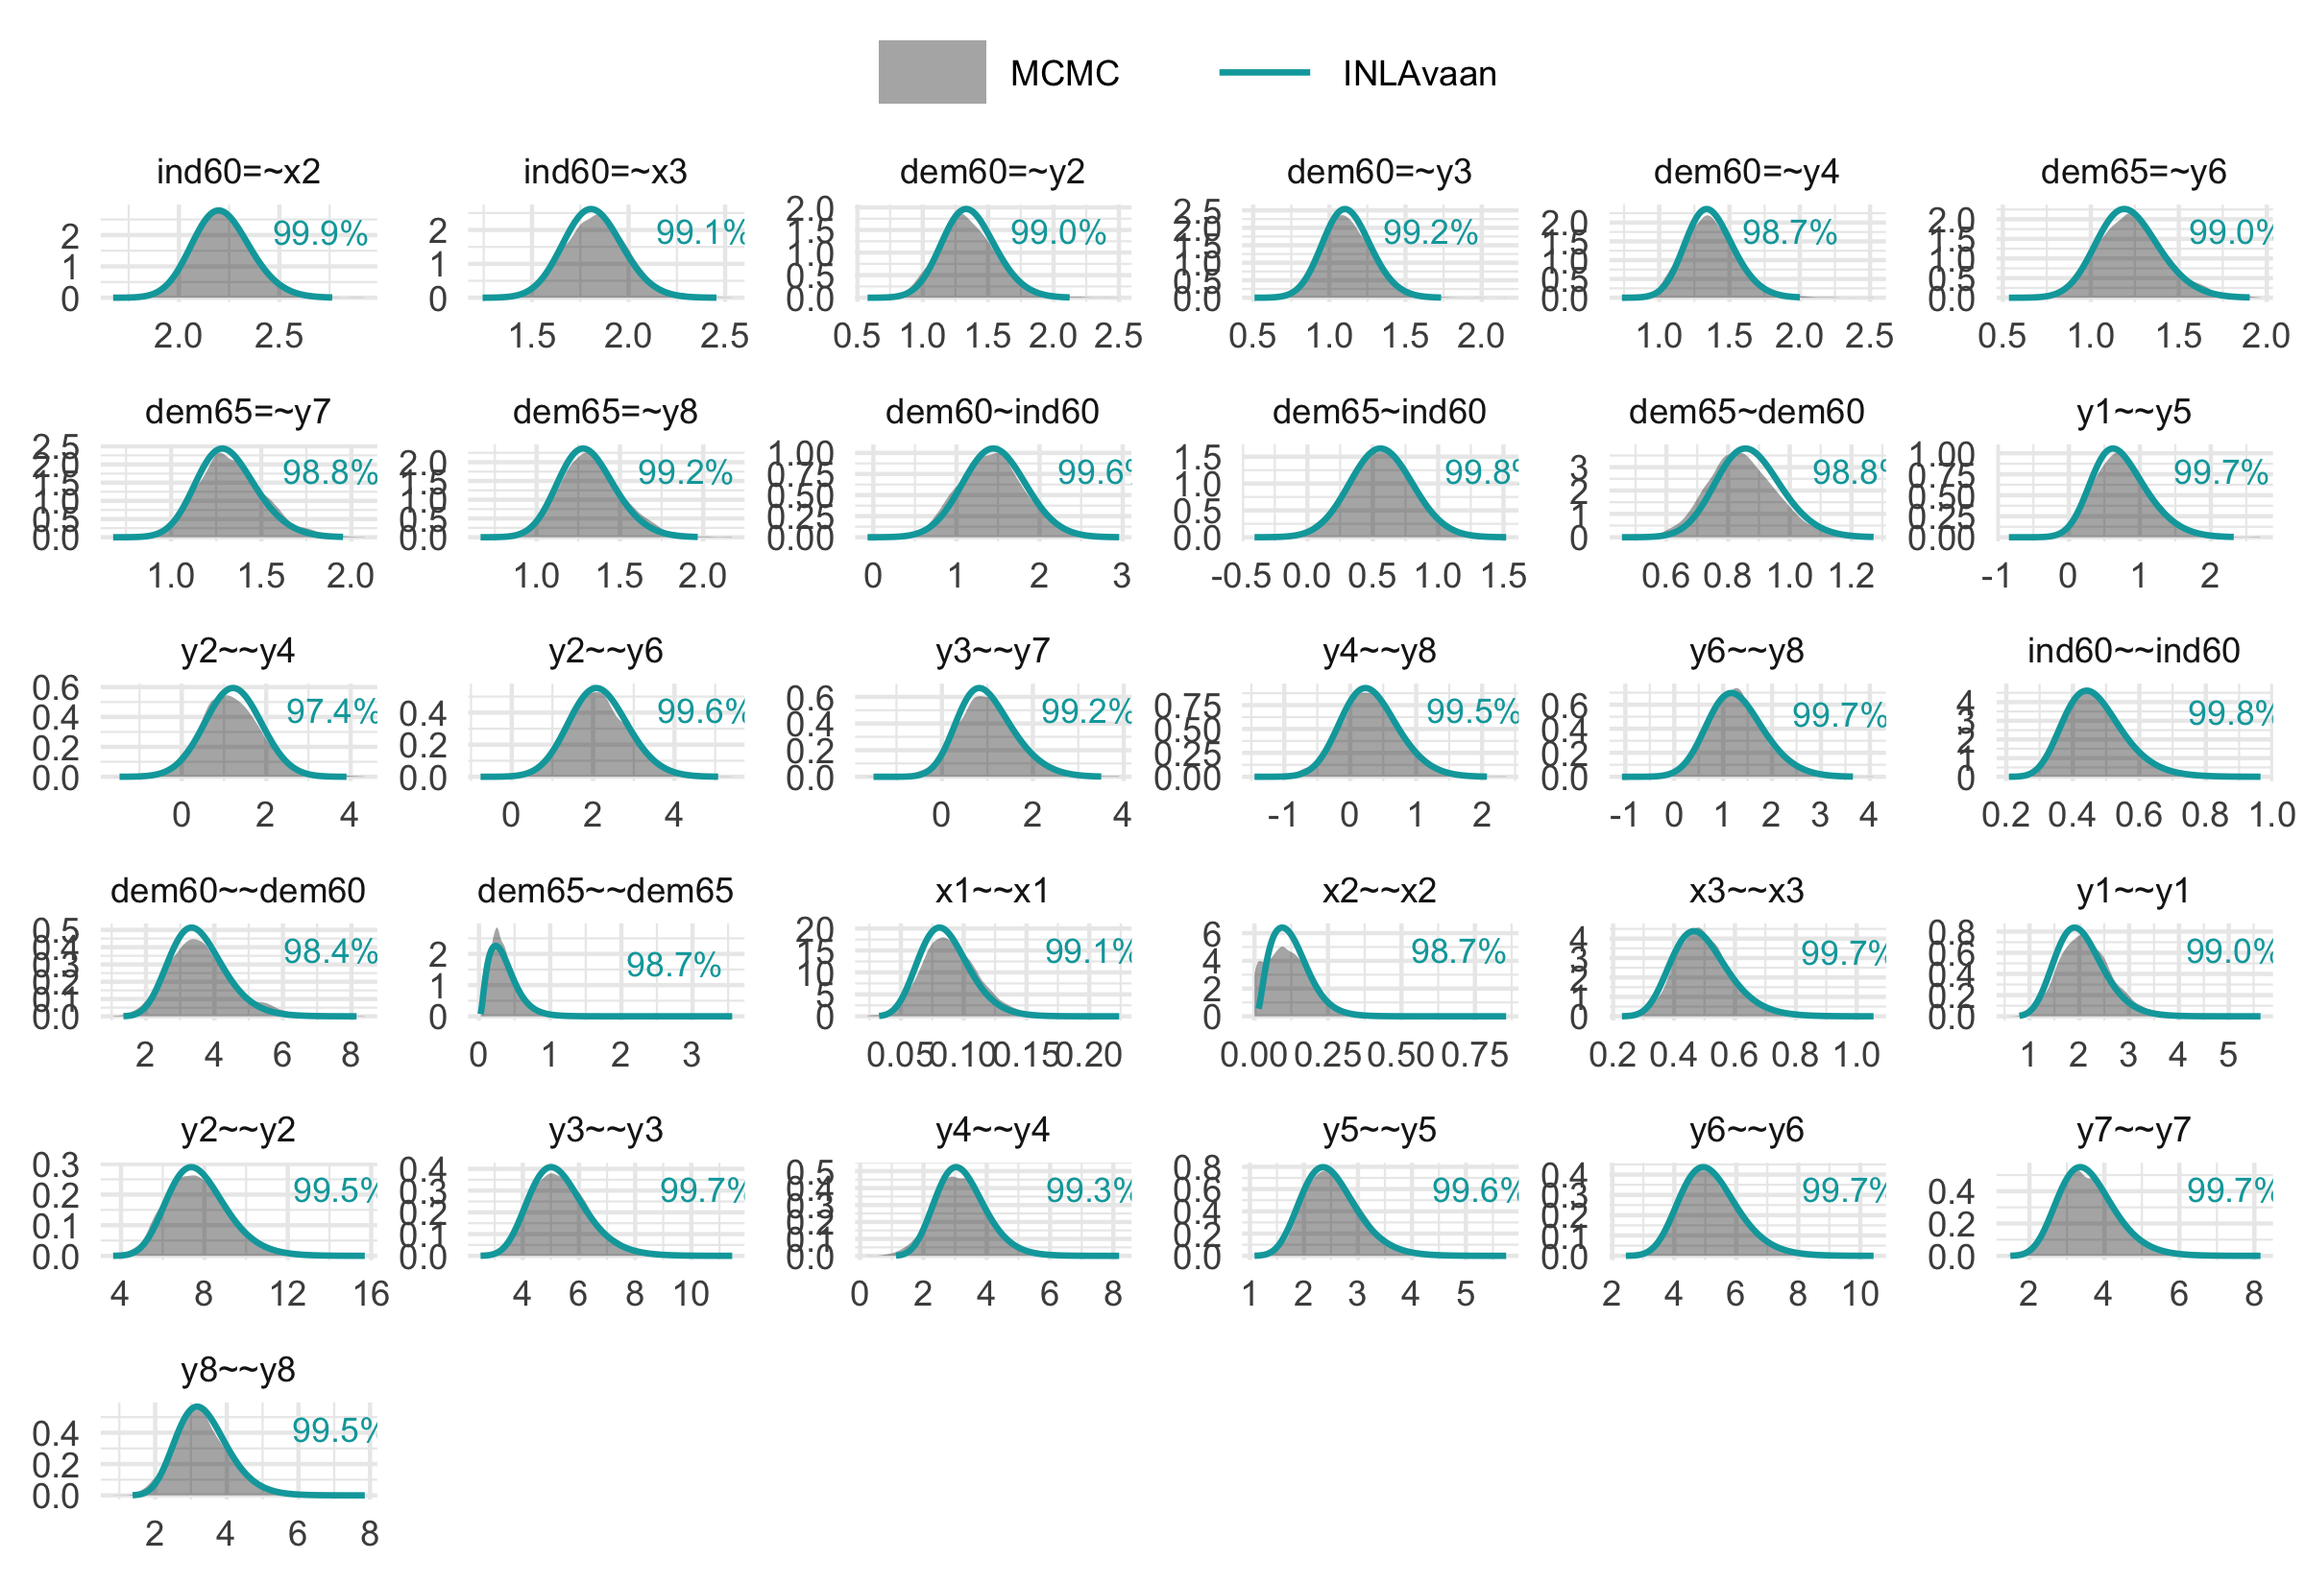
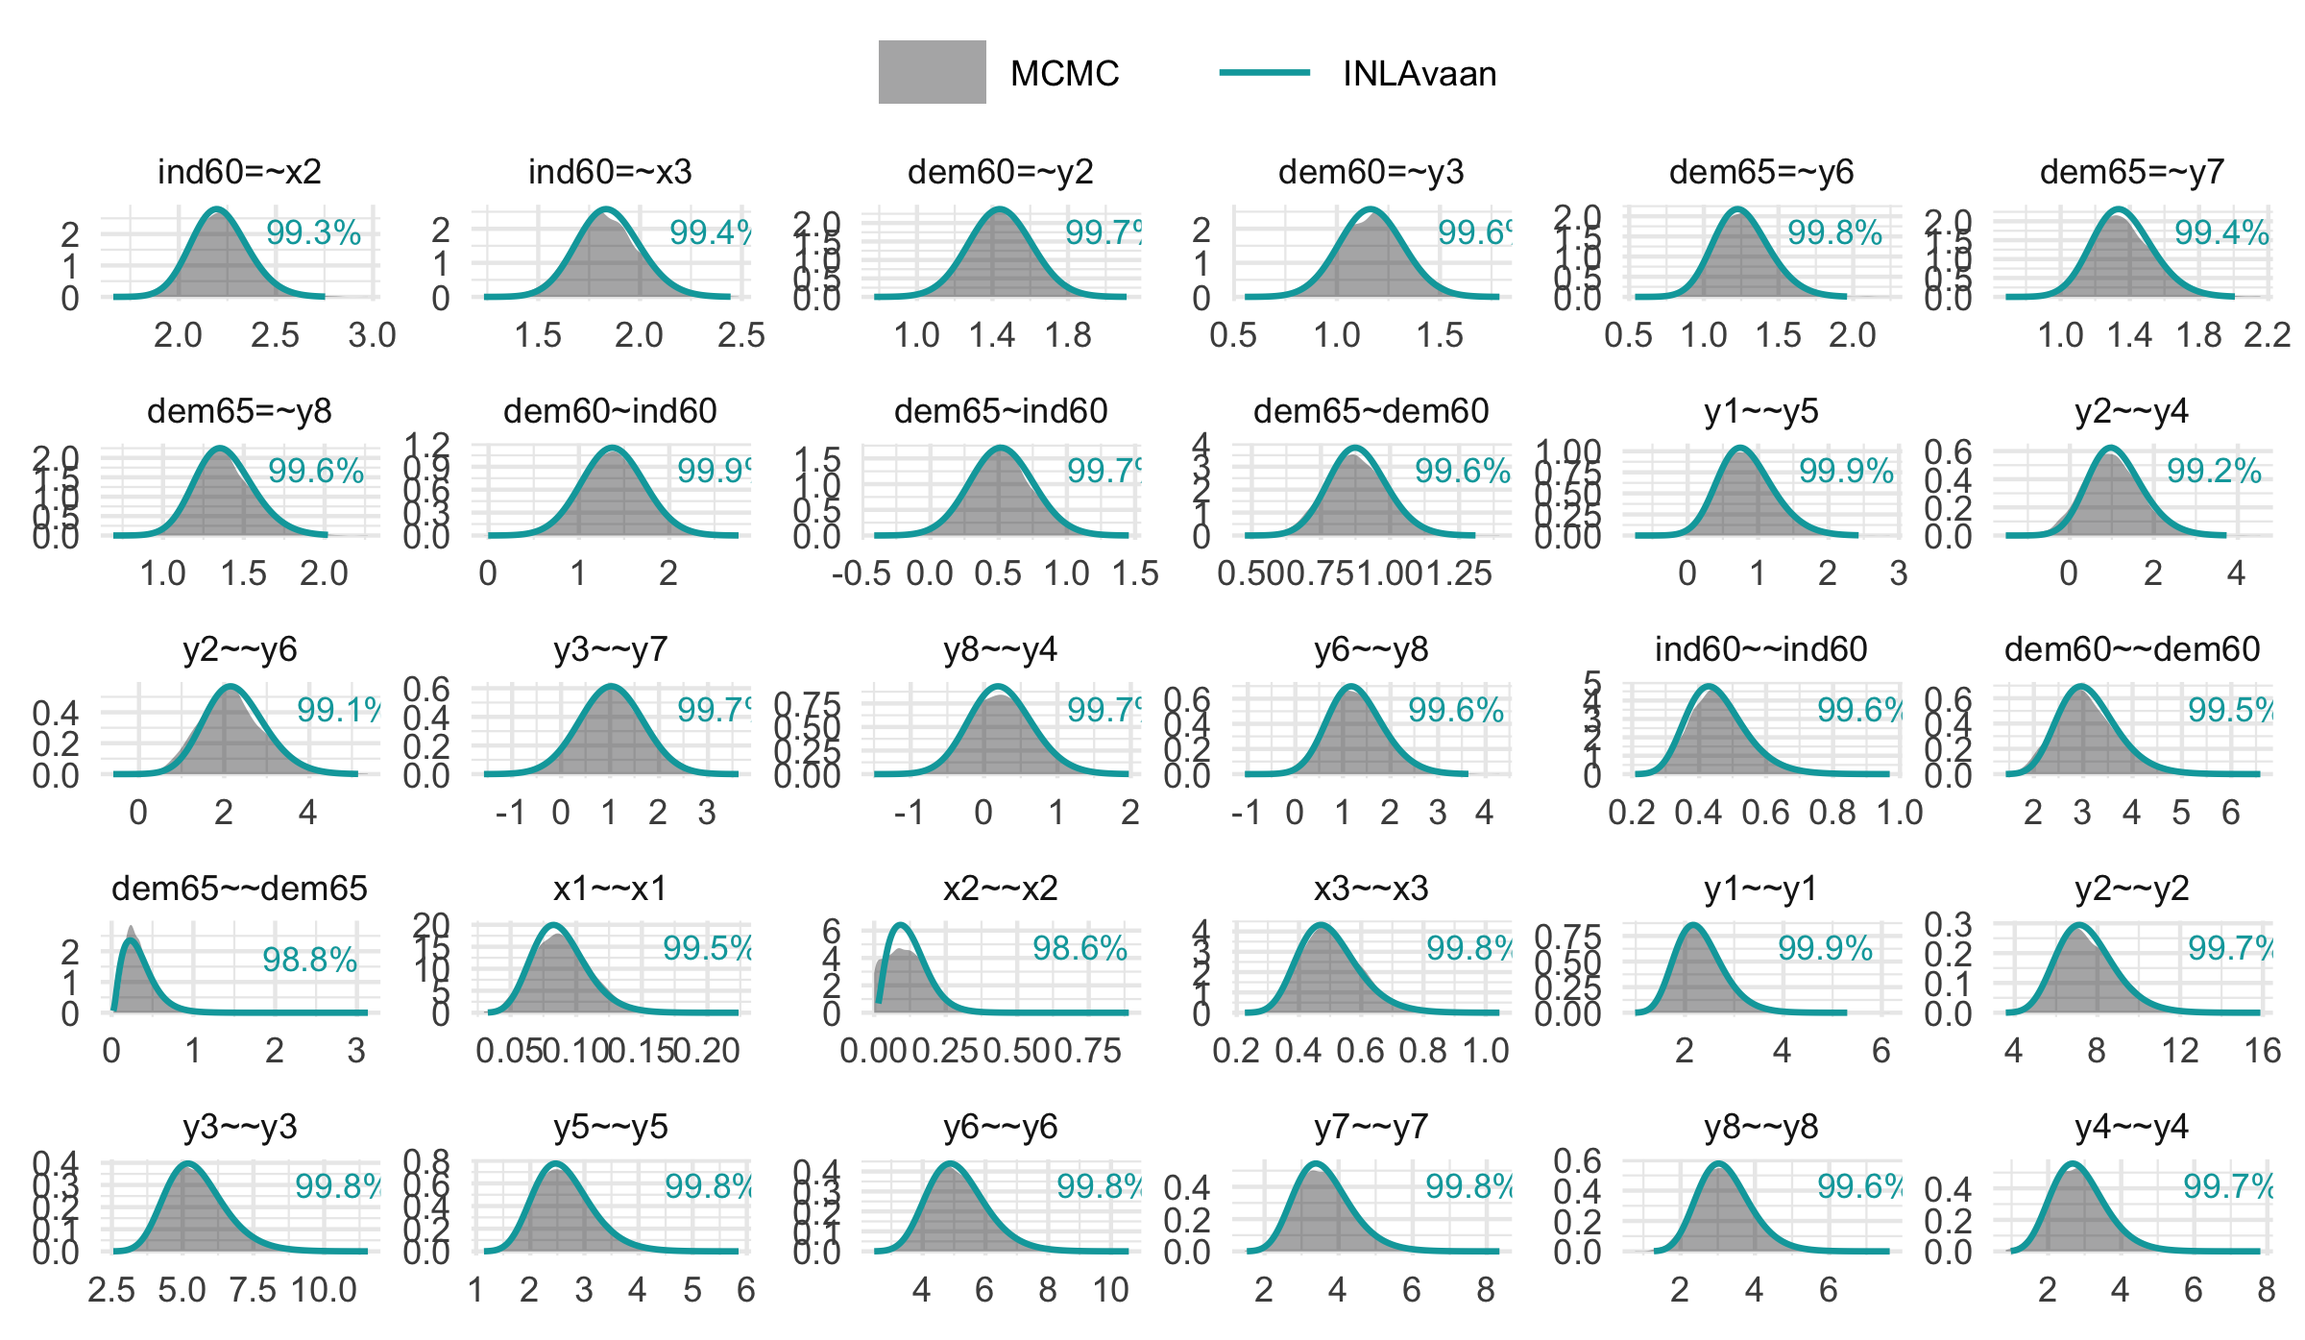
Update README

diff --git a/README.md b/README.md
@@ -40,7 +40,7 @@ Bollen (1989)[^1]:
 model <- "
   # Latent variable definitions
      ind60 =~ x1 + x2 + x3
-     dem60 =~ y1 + y2 + y3 + y4
+     dem60 =~ y1 + y2 + y3
      dem65 =~ y5 + y6 + y7 + y8
 
   # Latent regressions
@@ -54,56 +54,58 @@ model <- "
     y4 ~~ y8
     y6 ~~ y8
   
+  # Fixed loading
+    dem60 =~ 1.5*y4
+  
   # Custom priors on latent variances
     ind60 ~~ prior('gamma(1, 1)')*ind60
-    dem60 ~~ prior('gamma(1,.9)')*dem60
+    dem60 ~~ prior('gamma(2, 1)')*dem60
     dem65 ~~ prior('gamma(1,.5)')*dem65
 "
 utils::data("PoliticalDemocracy", package = "lavaan")
 
 fit <- asem(model, PoliticalDemocracy)
 #> ℹ Finding posterior mode.
-#> ✔ Finding posterior mode. [33ms]
+#> ✔ Finding posterior mode. [35ms]
 #> 
 #> ℹ Computing the Hessian.
-#> ✔ Computing the Hessian. [97ms]
+#> ✔ Computing the Hessian. [94ms]
 #> 
 #> ℹ Performing VB correction.
-#> ✔ VB correction; mean |δ| = 0.043σ. [87ms]
+#> ✔ VB correction; mean |δ| = 0.035σ. [85ms]
 #> 
-#> ⠙ Fitting skew normal to 0/31 marginals.
-#> ⠹ Fitting skew normal to 5/31 marginals.
-#> ⠸ Fitting skew normal to 16/31 marginals.
-#> ⠼ Fitting skew normal to 27/31 marginals.
-#> ✔ Fitting skew normal to 31/31 marginals. [607ms]
+#> ⠙ Fitting skew normal to 0/30 marginals.
+#> ⠹ Fitting skew normal to 2/30 marginals.
+#> ⠸ Fitting skew normal to 13/30 marginals.
+#> ⠼ Fitting skew normal to 24/30 marginals.
+#> ✔ Fitting skew normal to 30/30 marginals. [558ms]
 #> 
 #> ℹ Sampling covariances and defined parameters.
-#> ✔ Sampling covariances and defined parameters. [74ms]
+#> ✔ Sampling covariances and defined parameters. [56ms]
 #> 
 #> ⠙ Computing ppp and DIC.
 #> ⠹ Computing ppp and DIC.
-#> ⠸ Computing ppp and DIC.
-#> ✔ Computing ppp and DIC. [276ms]
+#> ✔ Computing ppp and DIC. [196ms]
 #> 
 
 summary(fit)
-#> INLAvaan 0.2.2 ended normally after 71 iterations
+#> INLAvaan 0.2.2 ended normally after 80 iterations
 #> 
 #>   Estimator                                      BAYES
 #>   Optimization method                           NLMINB
-#>   Number of model parameters                        31
+#>   Number of model parameters                        30
 #> 
 #>   Number of observations                            75
 #> 
 #> Model Test (User Model):
 #> 
-#>    Marginal log-likelihood                   -1656.387 
-#>    PPP (Chi-square)                              0.132 
+#>    Marginal log-likelihood                   -1651.231 
+#>    PPP (Chi-square)                              0.188 
 #> 
 #> Information Criteria:
 #> 
-#>    Deviance (DIC)                             3221.664 
-#>    Effective parameters (pD)                    62.149 
+#>    Deviance (DIC)                             3215.749 
+#>    Effective parameters (pD)                    58.588 
 #> 
 #> Parameter Estimates:
 #> 
@@ -114,57 +116,58 @@ summary(fit)
 #>                    Estimate       SD     2.5%    97.5%     NMAD    Prior       
 #>   ind60 =~                                                                     
 #>     x1                1.000                                                    
-#>     x2                2.216    0.145    1.947    2.518    0.007    normal(0,10)
-#>     x3                1.819    0.154    1.529    2.133    0.005    normal(0,10)
+#>     x2                2.213    0.145    1.945    2.515    0.006    normal(0,10)
+#>     x3                1.847    0.156    1.552    2.166    0.006    normal(0,10)
 #>   dem60 =~                                                                     
 #>     y1                1.000                                                    
-#>     y2                1.359    0.207    0.978    1.789    0.011    normal(0,10)
-#>     y3                1.120    0.159    0.824    1.450    0.008    normal(0,10)
-#>     y4                1.367    0.173    1.054    1.735    0.015    normal(0,10)
+#>     y2                1.443    0.168    1.118    1.777    0.001    normal(0,10)
+#>     y3                1.168    0.155    0.868    1.478    0.001    normal(0,10)
 #>   dem65 =~                                                                     
 #>     y5                1.000                                                    
-#>     y6                1.220    0.180    0.893    1.601    0.009    normal(0,10)
-#>     y7                1.316    0.168    1.014    1.674    0.010    normal(0,10)
-#>     y8                1.309    0.173    0.997    1.676    0.016    normal(0,10)
+#>     y6                1.260    0.188    0.921    1.659    0.012    normal(0,10)
+#>     y7                1.362    0.175    1.042    1.731    0.022    normal(0,10)
+#>     y8                1.384    0.182    1.056    1.770    0.023    normal(0,10)
+#>   dem60 =~                                                                     
+#>     y4                1.500                                                    
 #> 
 #> Regressions:
 #>                    Estimate       SD     2.5%    97.5%     NMAD    Prior       
 #>   dem60 ~                                                                      
-#>     ind60             1.462    0.381    0.734    2.230    0.003    normal(0,10)
+#>     ind60             1.379    0.348    0.706    2.069    0.001    normal(0,10)
 #>   dem65 ~                                                                      
-#>     ind60             0.568    0.242    0.102    1.052    0.002    normal(0,10)
-#>     dem60             0.870    0.107    0.673    1.093    0.015    normal(0,10)
+#>     ind60             0.524    0.234    0.073    0.991    0.001    normal(0,10)
+#>     dem60             0.885    0.106    0.688    1.103    0.020    normal(0,10)
 #> 
 #> Covariances:
 #>                    Estimate       SD     2.5%    97.5%     NMAD    Prior       
 #>  .y1 ~~                                                                        
-#>    .y5                0.298    0.396    0.063    1.612    0.004       beta(1,1)
+#>    .y5                0.330    0.397    0.144    1.699    0.006       beta(1,1)
 #>  .y2 ~~                                                                        
-#>    .y4                0.251    0.672   -0.103    2.531    0.005       beta(1,1)
-#>    .y6                0.347    0.730    0.789    3.656    0.010       beta(1,1)
+#>    .y4                0.216    0.657   -0.074    2.506    0.004       beta(1,1)
+#>    .y6                0.348    0.719    0.967    3.790    0.010       beta(1,1)
 #>  .y3 ~~                                                                        
-#>    .y7                0.219    0.626   -0.076    2.375    0.005       beta(1,1)
-#>  .y4 ~~                                                                        
-#>    .y8                0.108    0.441   -0.483    1.247    0.006       beta(1,1)
+#>    .y7                0.224    0.650    2.299   -0.249    0.005       beta(1,1)
+#>  .y8 ~~                                                                        
+#>    .y4                0.069    0.434   -0.570    1.134    0.004       beta(1,1)
 #>  .y6 ~~                                                                        
-#>    .y8                0.319    0.590    0.242    2.559    0.005       beta(1,1)
+#>    .y8                0.309    0.587    0.235    2.541    0.005       beta(1,1)
 #> 
 #> Variances:
 #>                    Estimate       SD     2.5%    97.5%     NMAD    Prior       
-#>     ind60             0.469    0.092    0.317    0.675    0.003      gamma(1,1)
-#>    .dem60             3.546    0.810    5.338    2.172    0.010     gamma(1,.9)
-#>    .dem65             0.350    0.202    4.575    0.057    0.035     gamma(1,.5)
-#>    .x1                0.086    0.020    0.196    0.051    0.005 gamma(1,.5)[sd]
-#>    .x2                0.126    0.065    1.461    0.020    0.042 gamma(1,.5)[sd]
-#>    .x3                0.494    0.096    0.334    0.709    0.003 gamma(1,.5)[sd]
-#>    .y1                2.040    0.498    4.623    1.200    0.010 gamma(1,.5)[sd]
-#>    .y2                7.755    1.437    5.322   10.934    0.004 gamma(1,.5)[sd]
-#>    .y3                5.316    1.036    3.597    7.642    0.001 gamma(1,.5)[sd]
-#>    .y4                3.224    0.788    7.726    1.867    0.010 gamma(1,.5)[sd]
-#>    .y5                2.509    0.527    3.689    1.632    0.007 gamma(1,.5)[sd]
-#>    .y6                5.191    0.956    3.577    7.311    0.002 gamma(1,.5)[sd]
-#>    .y7                3.575    0.763    5.278    2.299    0.006 gamma(1,.5)[sd]
-#>    .y8                3.362    0.733    4.978    2.116    0.006 gamma(1,.5)[sd]
+#>     ind60             0.455    0.089    0.308    0.654    0.003      gamma(1,1)
+#>    .dem60             3.121    0.602    2.109    4.458    0.000      gamma(2,1)
+#>    .dem65             0.340    0.196    4.237    0.059    0.043     gamma(1,.5)
+#>    .x1                0.088    0.021    0.196    0.053    0.007 gamma(1,.5)[sd]
+#>    .x2                0.124    0.065    1.503    0.019    0.040 gamma(1,.5)[sd]
+#>    .x3                0.500    0.098    0.337    0.718    0.003 gamma(1,.5)[sd]
+#>    .y1                2.311    0.490    3.406    1.495    0.004 gamma(1,.5)[sd]
+#>    .y2                7.504    1.414   10.634    5.114    0.003 gamma(1,.5)[sd]
+#>    .y3                5.500    1.063    3.733    7.883    0.002 gamma(1,.5)[sd]
+#>    .y5                2.627    0.541    3.836    1.724    0.005 gamma(1,.5)[sd]
+#>    .y6                5.132    0.947    3.529    7.227    0.003 gamma(1,.5)[sd]
+#>    .y7                3.610    0.771    5.332    2.324    0.008 gamma(1,.5)[sd]
+#>    .y8                3.210    0.718    4.794    1.988    0.006 gamma(1,.5)[sd]
+#>    .y4                2.872    0.747    7.211    1.607    0.009 gamma(1,.5)[sd]
 ```
 
 ## Validation against MCMC
